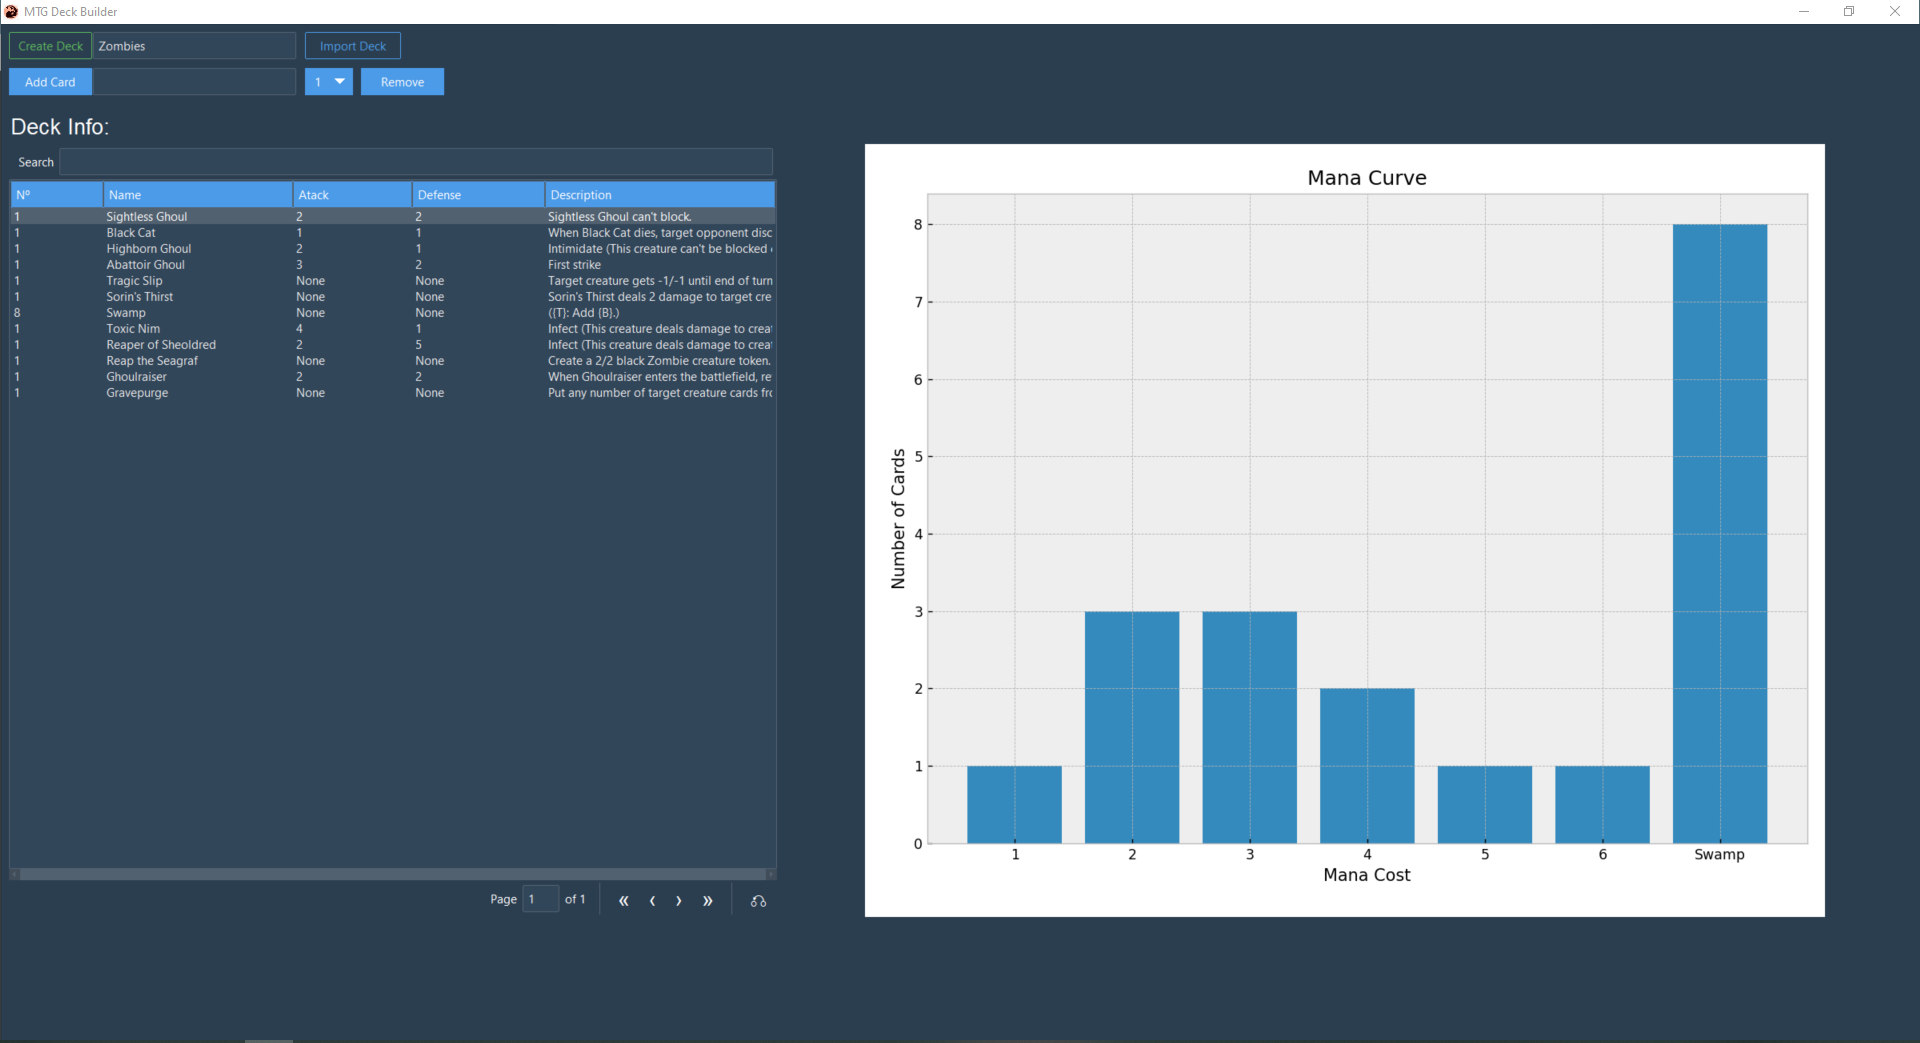
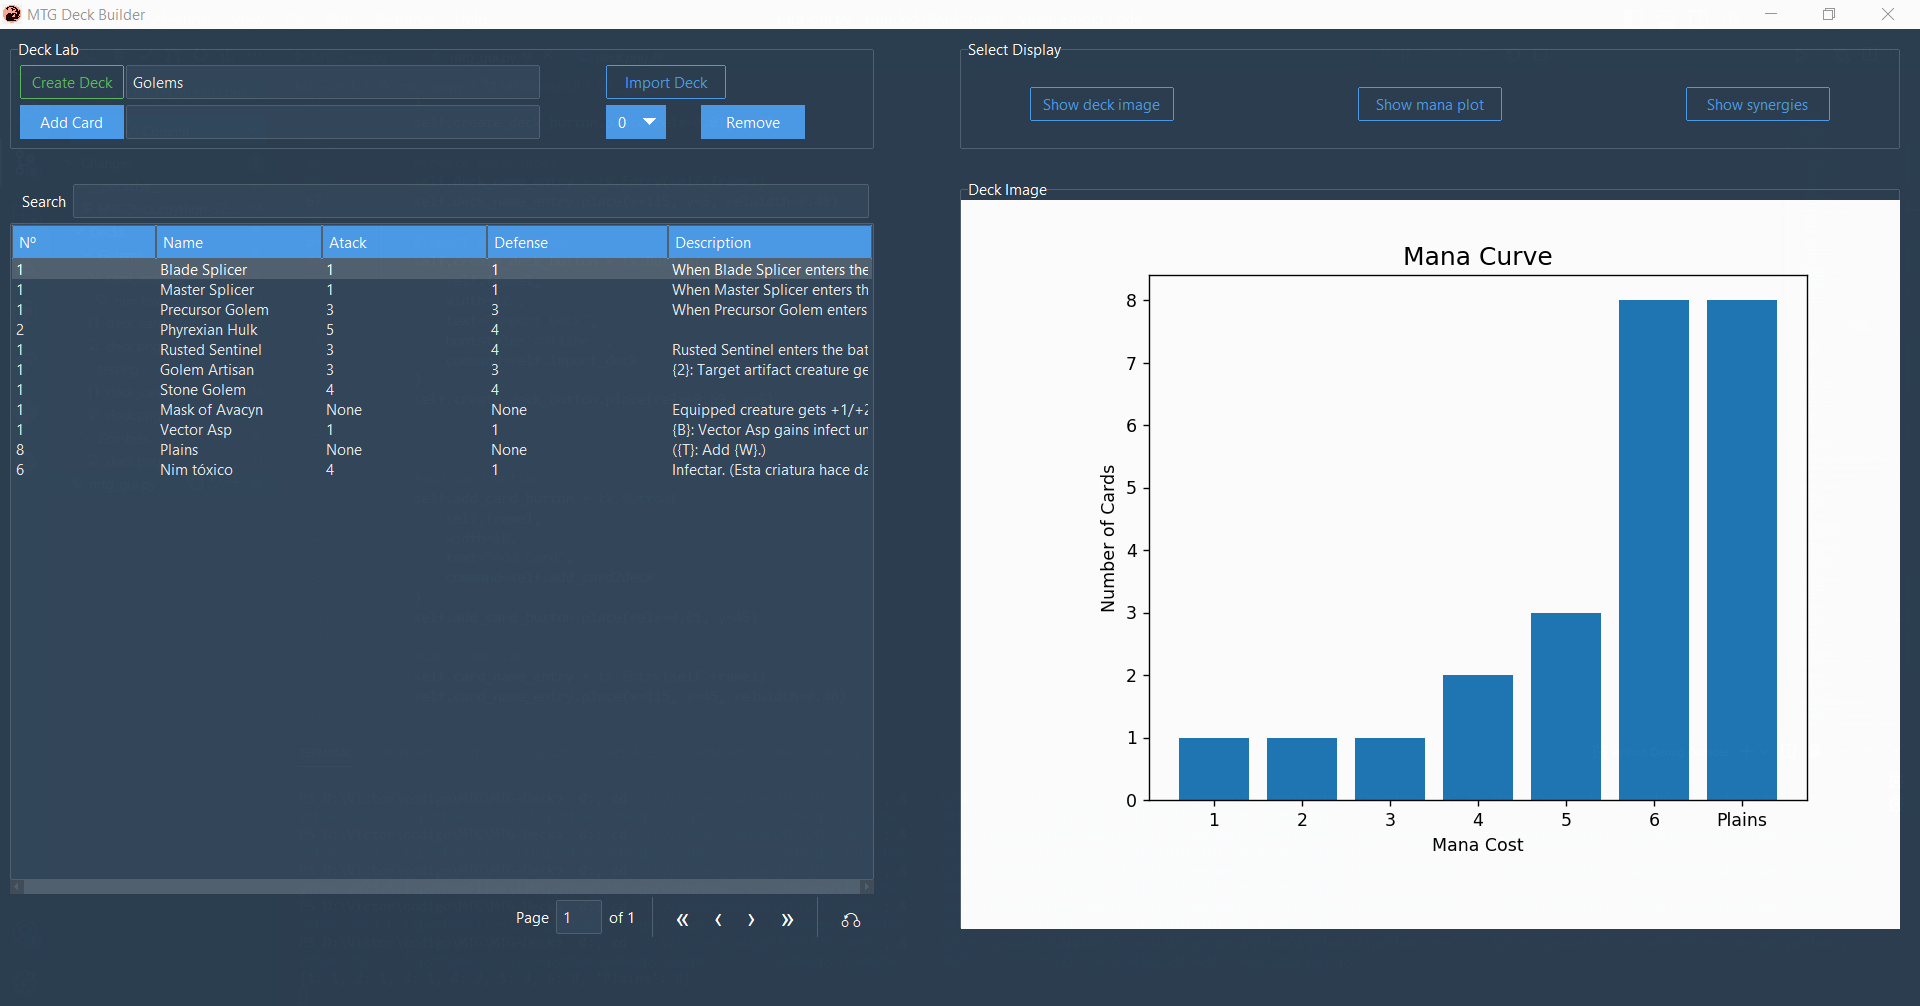
Gui changes

diff --git a/mtg_gui.py b/mtg_gui.py
@@ -25,63 +25,97 @@ class MTGDeckGUI:
         self.deck_image = None
         self.current_deck_name = ''
         self.canvas_plot = None
+        self.deck_image_label = None
+
+        #LABEL FRAMES:
+        # create a label frame to hold images, plots, etc.
+        self.label_frame = tk.LabelFrame(
+            self.root, 
+            text="Deck Image", 
+            width=int(self.width*0.50), 
+            height=int(self.height*0.75)
+        )
+        self.label_frame.place(x=int(self.width*0.50), y=150, width=int(self.width*0.49), height=int(self.height*0.75))
+
+        #frame tho select plots, images, synergies, etc.
+        self.frame_2 = tk.LabelFrame(
+            self.root, 
+            text="Select Display"
+        )
+        self.frame_2.place(x=int(self.width*0.50), y=10, width=int(self.width*0.49), height=110)
+
+        #frame tho select plots, images, synergies, etc.
+        self.frame1 = tk.LabelFrame(
+            self.root, 
+            text="Deck Lab"
+        )
+        self.frame1.place(x=10, y=10, width=int(self.width*0.45), height=110)
 
 
         #Create Deck button
         self.create_deck_button = tk.Button(
-            self.root, 
+            self.frame1, 
             width=10 ,
             text="Create Deck", 
             bootstyle='success, outline' ,
             command=self.create_deck
         )
-        self.create_deck_button.place(x=10, y=10)
+        self.create_deck_button.place(relx=0.01, y=5)
+
         #Create Deck label
-        self.deck_name_entry = tk.Entry(self.root, width=30)
-        self.deck_name_entry.place(x=115, y=10)
+        self.deck_name_entry = tk.Entry(self.frame1)
+        self.deck_name_entry.place(x=115, y=5, relwidth=0.48)
+
         #import deck button
         self.create_deck_button = tk.Button(
-            self.root, 
+            self.frame1, 
             width=12 ,
             text="Import Deck", 
             bootstyle='outline' ,
             command=self.import_deck
         )
-        self.create_deck_button.place(x=380, y=10)
+        self.create_deck_button.place(relx=0.69, y=5)
+
+
 
         #add card button
         self.add_card_button = tk.Button(
-            self.root, 
+            self.frame1, 
             width=10, 
             text="Add Card", 
             command=self.add_card2deck
         )
-        self.add_card_button.place(x=10, y=55)
+        self.add_card_button.place(relx=0.01, y=45)
+        
         #card name label
-        self.card_name_entry = tk.Entry(self.root, width=30)
-        self.card_name_entry.place(x=115, y=55)
+        self.card_name_entry = tk.Entry(self.frame1)
+        self.card_name_entry.place(x=115, y=45, relwidth=0.48)
+
         #number of cards selector
-        self.card_number_var = tk.StringVar(self.root)
+        self.card_number_var = tk.StringVar(self.frame1)
         self.card_number_var.set("0")
         self.card_number_dropdown = tk.OptionMenu(
-            self.root, 
+            self.frame1, 
             self.card_number_var, "0", "1", "2", "3", "4", "5", "6", "7", "8", "9", "10", "11", "12", "13", "14", "15", "16", "17", "18", "19", "20"
         )
-        self.card_number_dropdown.place(x=380, y=55)
+        self.card_number_dropdown.place(relx=0.69, y=45)
+
         #eliminate card (trash):
         trash_img = PhotoImage(file="icons/trash.png")
         self.remove_card_button = tk.Button(
-            self.root, 
+            self.frame1, 
             width=10, 
             image=trash_img, 
             text='Remove', 
             command=self.remove_card
         )
-        self.remove_card_button.place(x=450, y=55)
+        self.remove_card_button.place(relx=0.8, y=45)
         
-        #Deck info table
-        self.cards_label = tk.Label(self.root, text="Deck Info:", font=('default', 16))
-        self.cards_label.place(x=10, y=110)
+
+
+        # #Deck info table
+        # self.cards_label = tk.Label(self.root, text="Deck Info:", font=('default', 16))
+        # self.cards_label.place(x=10, y=110)
 
         #Deck table initialization:
         coldata = [
@@ -105,13 +139,44 @@ class MTGDeckGUI:
             bootstyle=PRIMARY,
             autofit=True
         )
-        self.deck_table.place(x=10, y=150, width=self.width*0.40, height=self.height*0.95 )
+        self.deck_table.place(x=10, y=150, width=int(self.width*0.45), height=self.height*0.95 )
 
-        event = self.deck_table._rowindex.get()
-        print(event)
+        
+        
+        #add image deck button
+        self.add_image_button = tk.Button(
+            self.frame_2, 
+            bootstyle="outline",
+            width=15, 
+            text="Show deck image", 
+            command=self.show_deck_image
+        )
+        self.add_image_button.place(relx=0.15, rely=0.5, anchor="center")
+
+        #add plot deck button
+        self.add_plot_button = tk.Button(
+            self.frame_2, 
+            bootstyle="outline",
+            width=15, 
+            text="Show mana plot", 
+            command=self.show_mana_curve
+        )
+        self.add_plot_button.place(relx=0.5, rely=0.5, anchor="center")
+
+        #add plot synergy button
+        self.add_syn_button = tk.Button(
+            self.frame_2, 
+            bootstyle="outline",
+            width=15, 
+            text="Show synergies", 
+            command=self.show_mana_curve
+        )
+        self.add_syn_button.place(relx=0.85, rely=0.5, anchor="center")
         
         # Bind the <Configure> event of self.root to a function that sets the height of self.deck_table
         self.root.bind("<Configure>", self.on_window_resize)
+
+
 
     def on_window_resize(self, event):
         # Get the current height of self.root and set the height of self.deck_table accordingly
@@ -121,10 +186,18 @@ class MTGDeckGUI:
         #print(self.height)
 
     def update_sizes(self):
-        self.deck_table.place(x=10, y=150, width=self.width*0.40, height=self.height*0.76 )
-        #si el deck no esta vacio
-        if self.deck:
-            self.canvas_plot.get_tk_widget().place(x=self.width*0.45, y=150, width=self.width*0.50, height=self.height*0.45)
+        #Update lable frames:
+        self.label_frame.place(x=int(self.width*0.50), y=150, width=int(self.width*0.49), height=int(self.height*0.75))
+        self.frame_2.place(x=int(self.width*0.50), y=10, width=int(self.width*0.49), height=110)
+        self.frame1.place(x=10, y=10, width=int(self.width*0.45), height=110)
+
+        #update component sizes
+        self.deck_table.place(x=10, y=150, width=(self.width*0.45), height=self.height*0.76 )
+        #self.add_image_button.place(x=self.width*0.65, y=self.height*0.0277)
+
+        #Update plot size        
+        if self.canvas_plot and self.canvas_plot.get_tk_widget():
+            self.canvas_plot.get_tk_widget().place(x=0, y=0, width=self.label_frame.winfo_width(), height=self.label_frame.winfo_height())
 
 
     def create_directory(self):
@@ -205,26 +278,62 @@ class MTGDeckGUI:
         if self.canvas_plot:
             self.canvas_plot.get_tk_widget().destroy()
 
+        self.empty_frame(self.label_frame)
+        
         # generate the plot
         self.mana_plot = self.deck.generate_mana_curve(style='bmh', show_lands=True)
+
         # set the figure properties
         self.mana_plot.set_size_inches(3, 5)
         self.mana_plot.tight_layout()
-        
-        # show plot on tk window
-        self.canvas_plot = FigureCanvasTkAgg(self.mana_plot, master=self.root)
-        self.canvas_plot.draw()
-        self.canvas_plot.get_tk_widget().place(x=self.width*0.45, y=150, width=self.width*0.50, height=self.height*0.45)
-        self.update_sizes()
-        
-        
+        self.mana_plot.subplots_adjust(top=0.9, bottom=0.2, left=0.2, right=0.9)
 
+        # show plot on tk window
+        self.canvas_plot = FigureCanvasTkAgg(self.mana_plot, master=self.label_frame)
+        self.canvas_plot.draw()
+        self.canvas_plot.get_tk_widget().place(x=0, y=0, width=self.label_frame.winfo_width(), height=self.label_frame.winfo_height())
+
+
+                       
     def show_deck_image(self):
+        if self.deck_image_label:
+            self.deck_image_label.destroy()
+
+        # if the label_frame is not empty, remove the content
+        if self.label_frame.winfo_children():
+            for child in self.label_frame.winfo_children():
+                child.destroy()
+
+        # generate the image
         self.deck_image = self.deck.generate_image()
+
+        # resize the image if needed
+        width = self.label_frame.winfo_width()
+        height = int(self.deck_image.height * width / self.deck_image.width)
+        self.deck_image = self.deck_image.resize((width, height))
+
+        # create a PhotoImage object from the deck image
+        photo_image = ImageTk.PhotoImage(self.deck_image)
+
+        # create a label widget to display the image
+        self.deck_image_label = tk.Label(self.label_frame, image=photo_image)
+        self.deck_image_label.image = photo_image
+
+        # place the label widget at the bottom of the plot
+        self.deck_image_label.place(x=0, y=0, width=self.deck_image.width, height=self.deck_image.height)
+
+
+
+
+    def empty_frame(self, frame_name):
+        if frame_name.winfo_children():
+            for child in frame_name.winfo_children():
+                child.destroy()
+                 
 
         
 
 if __name__ == "__main__":
-    root = tk.Window(themename="superhero", alpha=1, resizable=[640, 480], iconphoto='icons/red.png', title='MTG Deck Builder')
+    root = tk.Window(themename="superhero", alpha=0.98, resizable=[640, 480], iconphoto='icons/red.png', title='MTG Deck Builder')
     mtg_deck_gui = MTGDeckGUI(root)
     root.mainloop()
